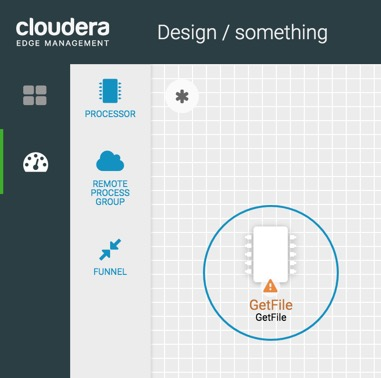
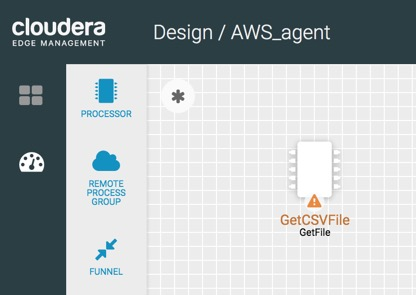
added instructions for cem ui minifi

diff --git a/README.md b/README.md
@@ -148,11 +148,13 @@ For now click class **AWS_agent**. Press open to start building. The canvas open
 
 We will build a MiNiFi ETL pipeline to ingest csv and image data.
 
+### Add a GetFile for CSV Data Ingest
+
 Add a **GetFile** processor onto canvas to get csv data:
 
-![getfile-csv-data-p1](./documentation/assets/images/tutorial1/getfile-csv-data-p1.jpg)
-
 Update processor name to **GetCSVFile**.
+
+![getfile-csv-data-p1](./documentation/assets/images/tutorial1/getfile-csv-data-p1.jpg)
 
 Double click on GetFile to configure. Scroll to **Properties**, add the properties in Table 1 to update GetFile's properties.
 
@@ -164,23 +166,33 @@ Double click on GetFile to configure. Scroll to **Properties**, add the properti
 | `Keep Source File`  | `false`  |
 | `Recurse Subdirectories` | `false` |
 
+### Push CSV Data to Remote NiFi Instance
+
 Add a **Remote Process Group** onto canvas to send csv data to NiFi remote instance:
+
+Add URL NiFi is running on:
 
 | Settings  | Value  |
 |:---|---:|
 | `URL` | `http://<ec2-public-DNS>:8080/nifi/` | 
 
-Connect **GetCSVFile** to Remote Process Group, then add the following configuration:
+Connect **GetCSVFile** to Remote Process Group, then add the NiFi destination input port ID you want to send the csv data:
 
 | Settings  | Value  |
 |:---|---:|
 | `Destination Input Port ID` | `<NiFi-input-port-ID>` | 
 
+> Note: you can find the input port ID by clicking on your input port in the NiFi flow. Make sure you connect to the input port that sends csv data to HDFS.
+
+![push-csv-to-nifi](./documentation/assets/images/tutorial1/push-csv-to-nifi.jpg)
+
+### Add a GetFile for Image Data Ingest
+
 Add a **GetFile** processor onto canvas to get image data:
 
-![getfile-image-data-p2](./documentation/assets/images/tutorial1/getfile-image-data-p2.jpg)
-
 Update processor name to **GetImageFiles**.
+
+![getfile-image-data-p2](./documentation/assets/images/tutorial1/getfile-image-data-p2.jpg)
 
 Double click on GetFile to configure. Scroll to **Properties**, add the properties in Table 2 to update GetFile's properties.
 
@@ -190,6 +202,8 @@ Double click on GetFile to configure. Scroll to **Properties**, add the properti
 |:---|---:|
 | `Input Directory`  | `/tmp/csdv/data/input/racetrack/image/logitech`  |
 | `Keep Source File`  | `false`  |
+
+### Push Image Data to Remote NiFi Instance
 
 Add a **Remote Process Group** onto canvas to send image data to NiFi remote instance:
 
@@ -203,6 +217,26 @@ Connect **GetImageFiles** to Remote Process Group, then add the following config
 |:---|---:|
 | `Destination Input Port ID` | `<NiFi-input-port-ID>` | 
 
+> Note: you can find the input port ID by clicking on your input port in the NiFi flow. Make sure you connect to the input port that sends image data to HDFS.
+
+![push-imgs-to-nifi](./documentation/assets/images/tutorial1/push-imgs-to-nifi.jpg)
+
+### Publish Data Flow to MiNiFi Agent
+
+Click on publish in actions dropdown:
+
+![cem-actions-publish](./documentation/assets/images/tutorial1/cem-actions-publish.jpg)
+
+Make this flow available to all agents associated with **AWS_agent** class, press publish:
+
+![publish-flow](./documentation/assets/images/tutorial1/publish-flow.jpg)
+
+> Note: you can add comment `Sending driving log csv and image data to NiFi`
+
+Result of published successful:
+
+![published-success](./documentation/assets/images/tutorial1/published-success.jpg)
+
 ## Tutorial 2: Collect Car Edge Data into Cloud
 
 We will use Cloudera Flow Manager (CFM) to build a NiFi dataflow in the interactive UI running in the cloud on an aws ec2 instance. This dataflow will be used to extract data from the MiNiFi agent, transform the data for routing csv and image data to HDFS running on another ec2 instance.
@@ -210,6 +244,8 @@ We will use Cloudera Flow Manager (CFM) to build a NiFi dataflow in the interact
 - Cloudera Flow Manager runs on port: `8080/nifi/`
 
 `<cfm-ec2-public-dns>:8080/nifi/`
+
+### Upload Hadoop HDFS Location to NiFi
 
 SSH into EC2 instance running NiFi:
 
@@ -235,11 +271,21 @@ Enter your CDH public host name in these field of core-site.xml:
 
 Save core-site.xml.
 
+### Build NiFi Flow to Load Data into HDFS
+
+### Add Input Port for CSV Data Ingest from MiNiFi Agent
+
 Add an **input port** to extract csv data from MiNiFi:
 
 Update input port name to **AWS_MiNiFi_CSV**.
 
+![input-port-csv](./documentation/assets/images/tutorial2/input-port-csv.jpg)
+
 Take note of **input port ID** under port details since we will need it for CEM UI.
+
+![input-port-csv-id](./documentation/assets/images/tutorial2/input-port-csv-id.jpg)
+
+> Note: if you haven't added inport port id for csv data in your minifi flow, take this id above to your minifi flow.
 
 Add a **PutHDFS** processor onto canvas to store driving log data. Update processor name to **PutCsvHDFS**.
 
